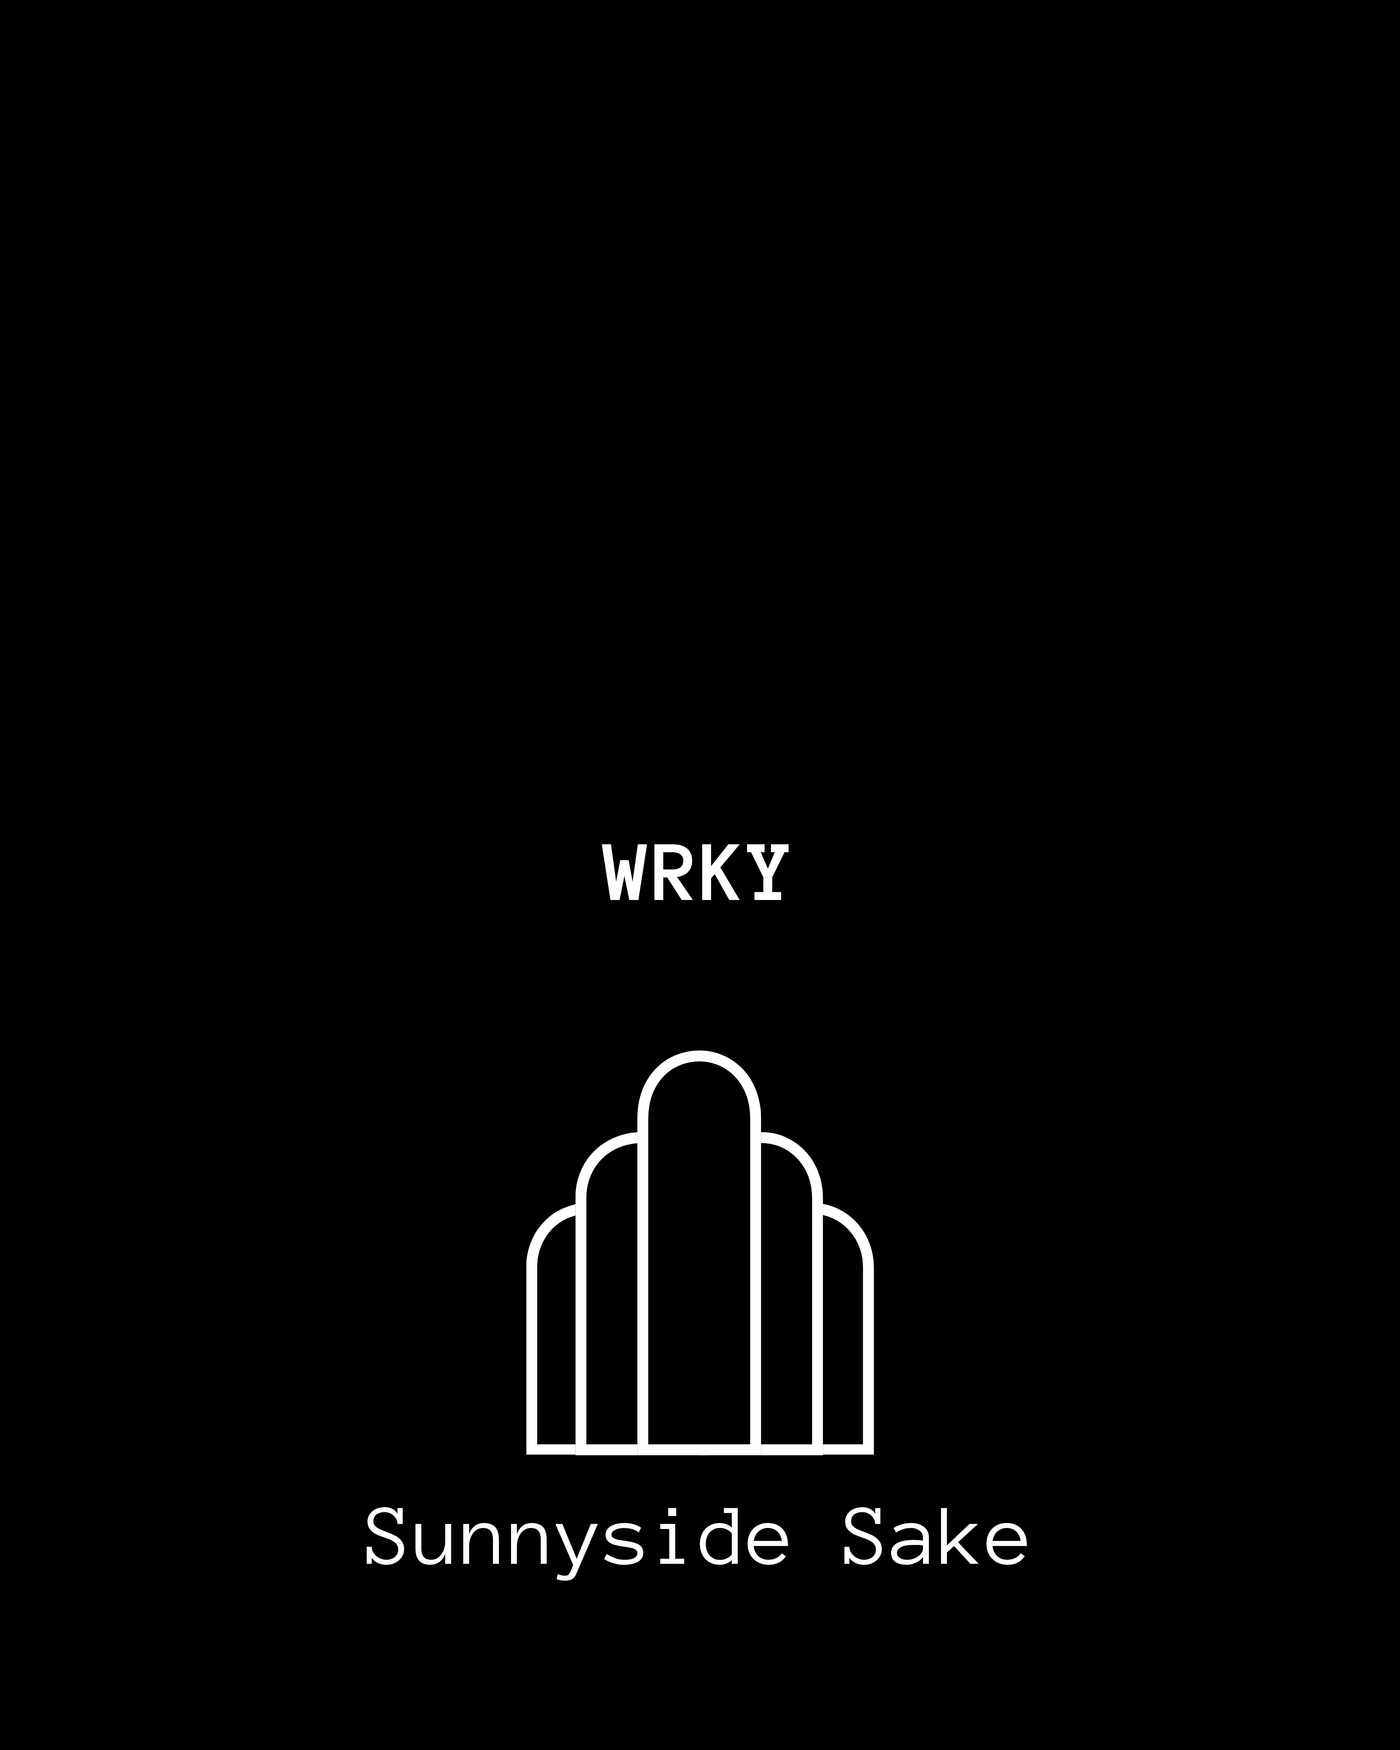
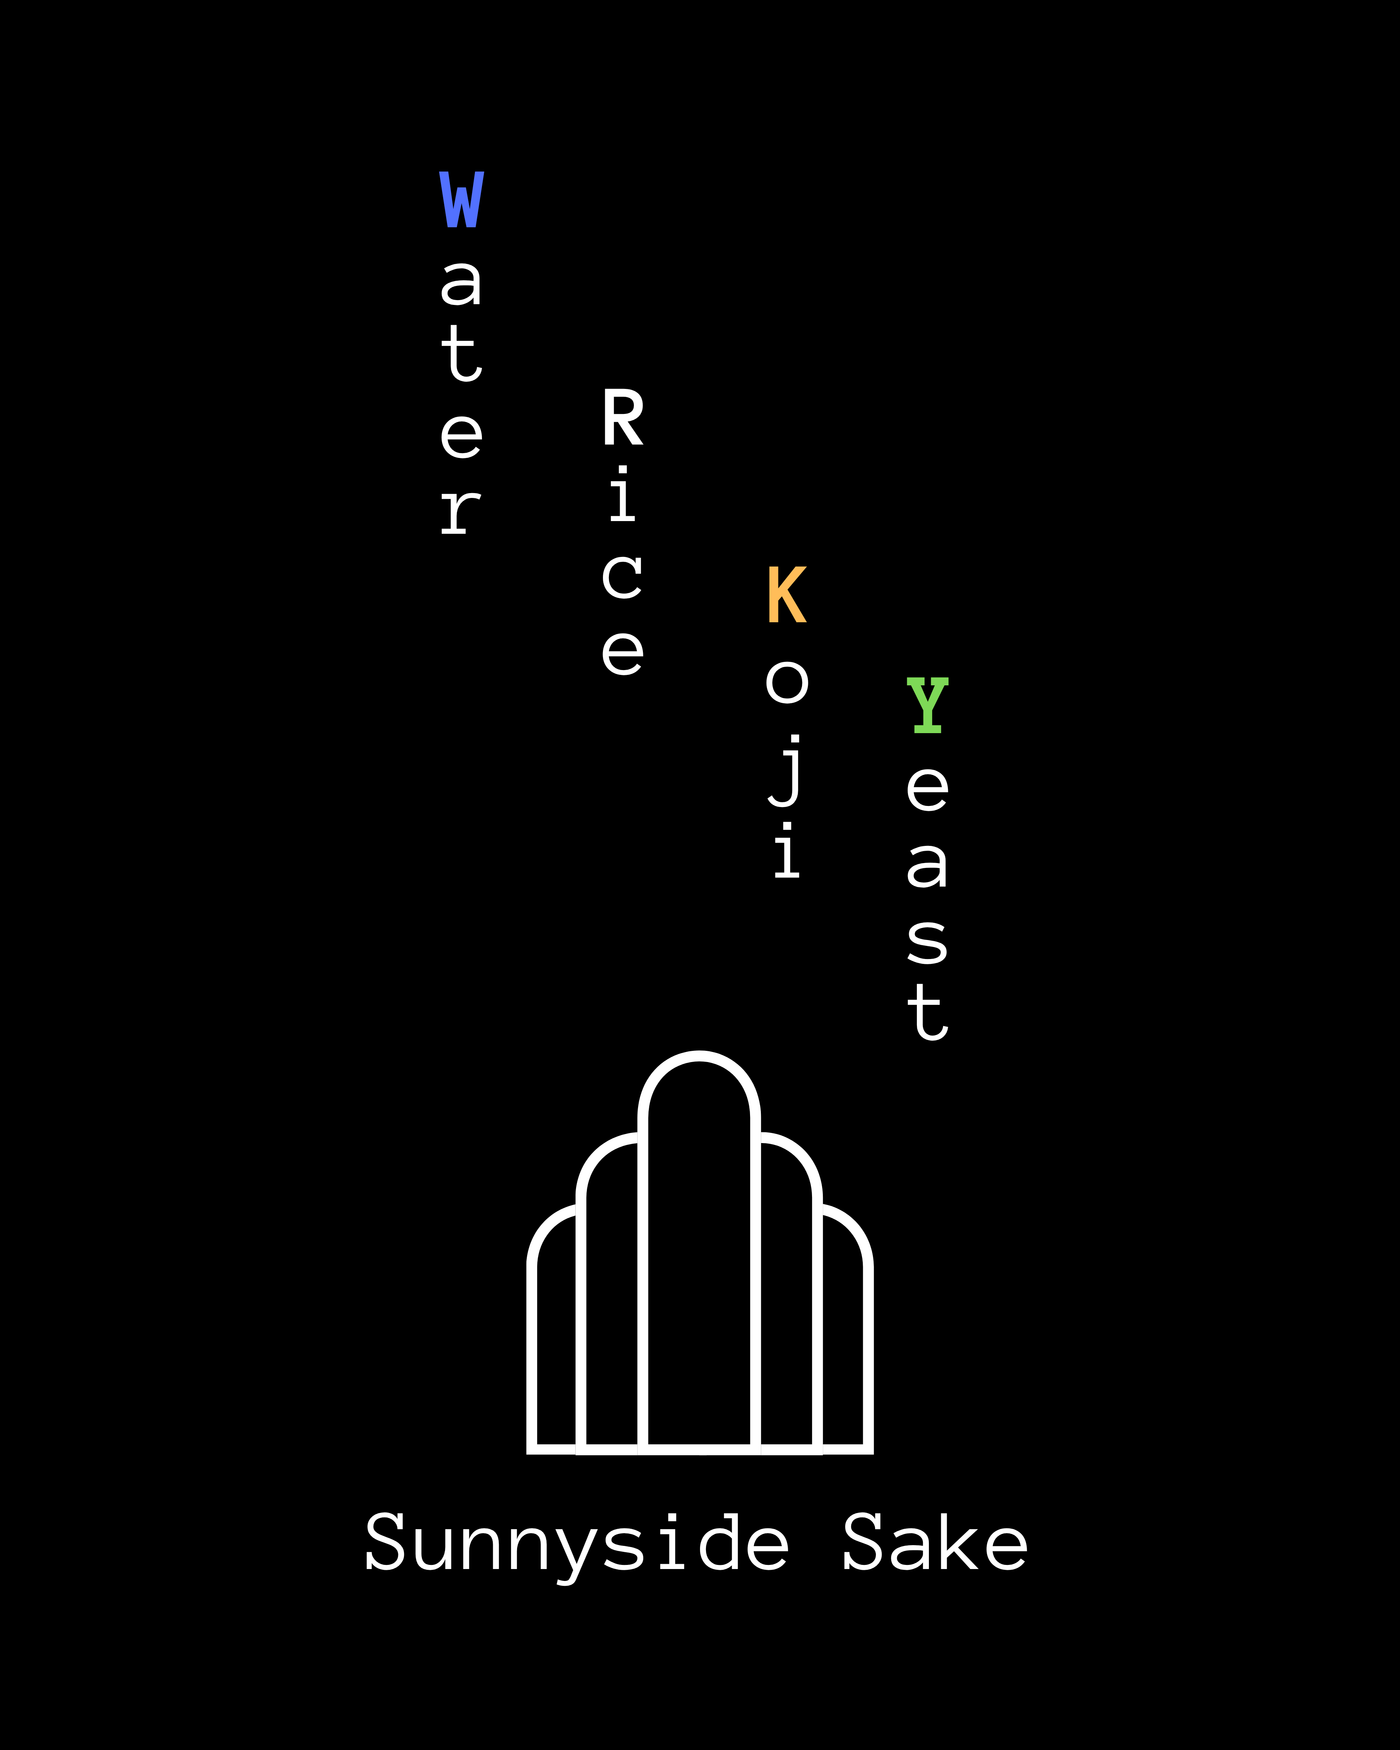
Use the expanded WRKY label as its front artwork
Swaps 006's front label from the plain "WRKY" wordmark to the variant
that expands the acronym — Water / Rice / Koji / Yeast, each word in its
own colour, arch intact.

This also fixes the odd-one-out problem on the index grid. WRKY was the
only tile without a colour-filled mark, so in a row of five solid
arches it read as empty rather than as a distinct design. The expanded
version carries the same colour weight as its neighbours while staying
recognisably its own thing.

Confirmed in the production build rather than the browser: the emitted
asset carries blue, green and amber pixels, which only this variant has.
The dev screenshot kept showing the previous artwork from cache.

diff --git a/src/content/batches/006/index.md b/src/content/batches/006/index.md
@@ -21,6 +21,8 @@ water: NYC Tap
 # 60% seimaibuai — qualifies as ginjo.
 grade: Junmai Ginjo
 
+# WRKY 6.png — the acronym expanded to Water / Rice / Koji / Yeast,
+# each word in its own colour. Dan's pick, and the most colourful of the set.
 labelFront: "./label-front.png"
 labelBack: "./label-back.png"
 bottle: "./bottle.jpg"
